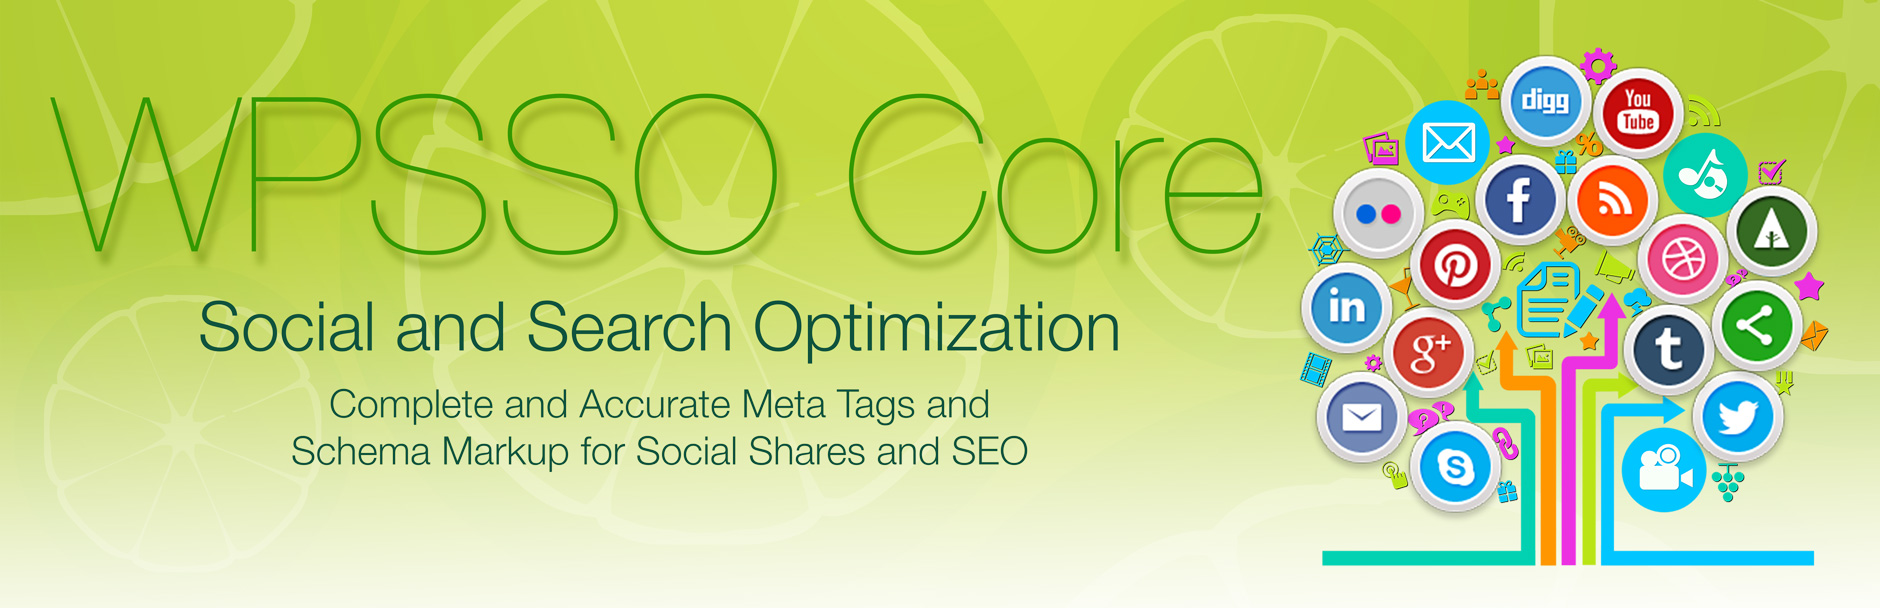
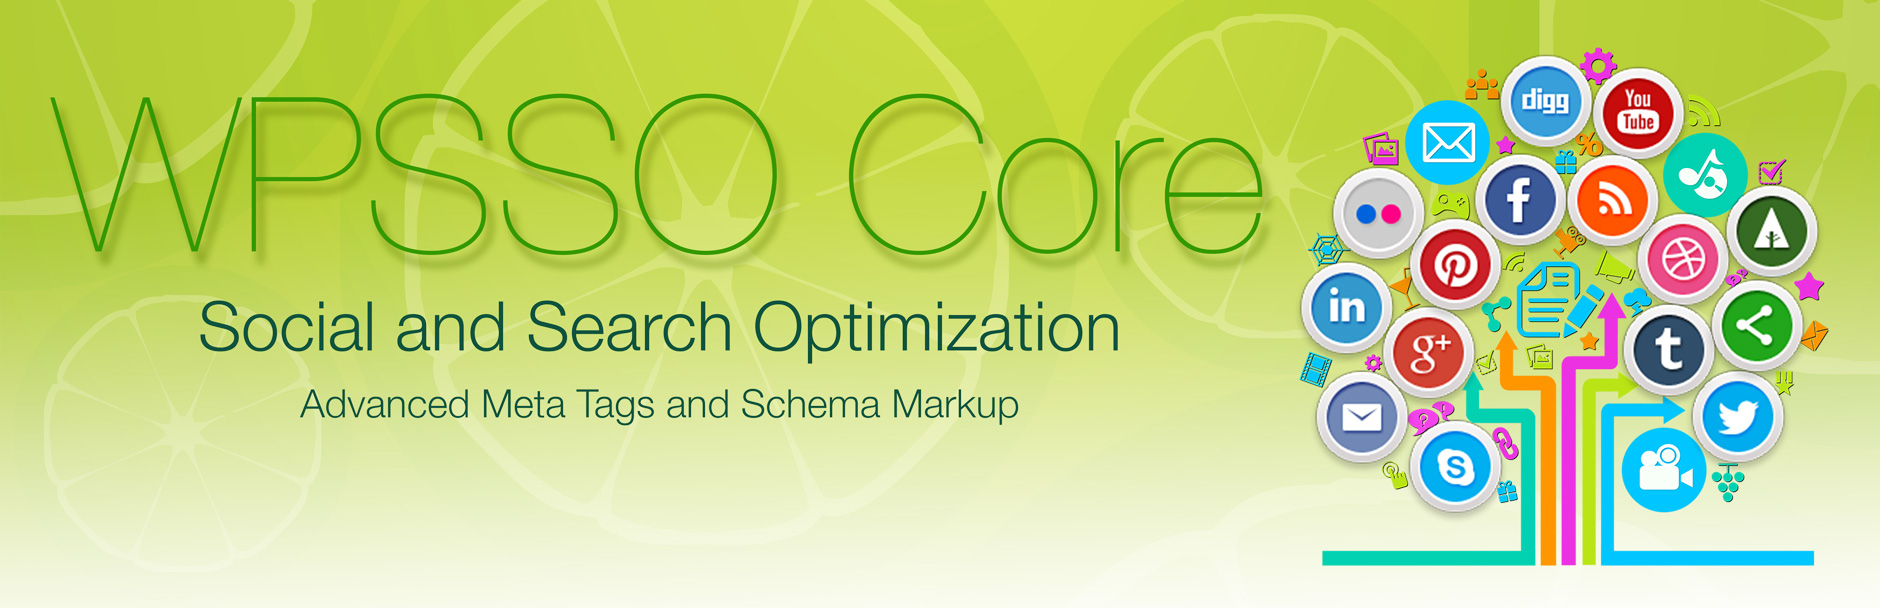
non-essential support files (documentation and assets)

Changed region(s): [[0.1543, 0.7188, 0.5553, 0.7812], [0.1543, 0.625, 0.5553, 0.6875]]

diff --git a/index.html b/index.html
@@ -25,11 +25,11 @@
         </ul>
       </header>
       <section>
-<h1>WPSSO Core</h1><h3>Advanced Social + Search SEO Meta Tags and Schema Markup for Facebook, Pinterest and More</h3>
+<h1>WPSSO Core</h1><h3>Advanced Meta Tags and Schema Markup for Facebook, Pinterest, SEO and More</h3>
 
 <table>
 <tr><th align="right" valign="top" nowrap>Plugin Name</th><td>WPSSO Core [Main Plugin]</td></tr>
-<tr><th align="right" valign="top" nowrap>Summary</th><td>Complete meta tags and Schema markup FROM YOUR CONTENT for Social Sharing, Google Knowledge Graph &amp; Rich Cards SEO, Pinterest Rich Pins and more.</td></tr>
+<tr><th align="right" valign="top" nowrap>Summary</th><td>Complete meta tags and Schema markup FROM YOUR CONTENT for social sharing, Google&#039;s Knowledge Graph and Rich Card SEO, Pinterest Rich Pins and mo</td></tr>
 <tr><th align="right" valign="top" nowrap>Stable Version</th><td>4.3.2</td></tr>
 <tr><th align="right" valign="top" nowrap>Requires At Least</th><td>WordPress 3.8</td></tr>
 <tr><th align="right" valign="top" nowrap>Tested Up To</th><td>WordPress 4.9.6</td></tr>
@@ -44,7 +44,7 @@
 
 <p><strong>WPSSO creates <em>complete</em> and <em>accurate</em> meta tags and Schema markup:</strong></p>
 
-<p>WPSSO Core offers meta tags and Schema markup for Facebook / Open Graph, Google Knowledge Graph and Rich Cards SEO, Pinterest Rich Pins, Twitter Cards, Weibo, and more &mdash; including complete image markup, video markup, extensive eCommerce product markup, author profile / authorship, co-authors, publisher information, local business markup, aggregate ratings, reviews, recipe information, event details, and much, much more &mdash; all from your existing content.</p>
+<p>WPSSO Core offers meta tags and Schema markup for Facebook / Open Graph, Google's Knowledge Graph and Rich Card SEO, Pinterest Rich Pins, Twitter Cards, Weibo, and more &mdash; including complete image markup, video markup, extensive eCommerce product markup, author profile / authorship, co-authors, publisher information, local business markup, aggregate ratings, reviews, recipe information, event details, and much, much more &mdash; all from your existing content.</p>
 
 <p><strong>WPSSO uses your <em>existing content</em> for meta tags and Schema markup:</strong></p>
 
@@ -78,8 +78,8 @@
 <ul>
 <li>Facebook / Open Graph</li>
 <li>Google+</li>
-<li>Google Knowledge Graph</li>
-<li>Google Rich Cards SEO</li>
+<li>Google's Knowledge Graph</li>
+<li>Google's Rich Card SEO</li>
 <li>LinkedIn</li>
 <li>Pinterest Rich Pins</li>
 <li>Twitter Cards</li>
@@ -92,10 +92,10 @@
 <li><p>Features customizable image dimensions for Facebook / Open Graph, Schema markup, Google Rich Cards SEO, Pinterest Rich Pins, and all Twitter Cards.</p></li>
 <li><p>Configurable maximum title and description lengths, including both hard and soft limits.</p></li>
 <li><p>Contextual help for <em>every</em> plugin option and <a href="https://wpsso.com/docs/plugins/wpsso/">comprehensive online documentation</a>.</p></li>
-<li><p>Configurable website / business social accounts for Schema markup and Google Knowledge Graph.</p></li>
-<li><p>Adds author, publisher, and website markup using Schema JSON-LD for Google Knowledge Graph.</p></li>
+<li><p>Configurable website / business social accounts for Schema markup and Google's Knowledge Graph.</p></li>
+<li><p>Adds author, publisher, and website markup using Schema JSON-LD for Google's Knowledge Graph.</p></li>
 <li><p>Adds markup for the <a href="https://developers.google.com/search/docs/data-types/sitelinks-searchbox">Google Sitelinks Searchbox</a>.</p></li>
-<li><p>User profile contact fields for Facebook / Open Graph, Twitter Cards, Schema markup, and Google Knowledge Graph.</p></li>
+<li><p>User profile contact fields for Facebook / Open Graph, Twitter Cards, Schema markup, and Google's Knowledge Graph.</p></li>
 <li><p>Built-in support for <a href="https://wordpress.org/plugins/amp/">Accelerated Mobile Pages (AMP)</a> and <a href="https://wordpress.org/plugins/accelerated-mobile-pages/">AMP for WP - Accelerated Mobile Pages</a> plugins.</p></li>
 <li><p>Supports advanced WordPress configurations, including WordPress Network / Multisite installations and WordPress MU Domain Mapping.</p></li>
 <li><p>And even includes an option to hide the preview of all Pro settings and features. ;-)</p></li>
